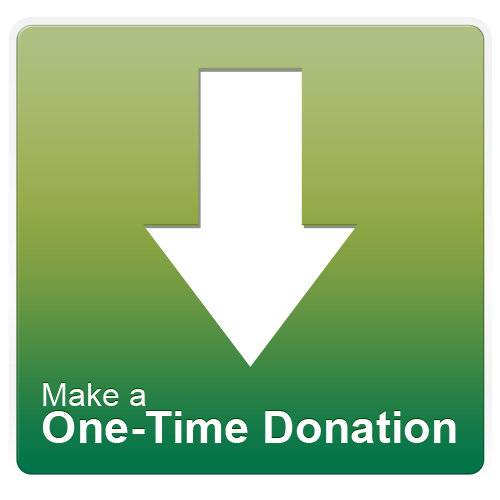
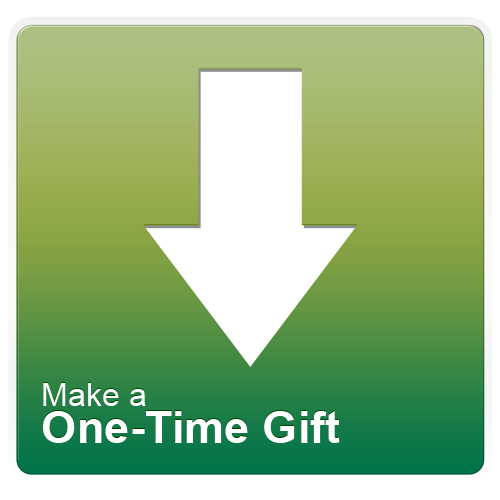
Change the word donation to gift

Changed region(s): [[0.51, 0.81, 0.93, 0.9]]

diff --git a/index.php b/index.php
@@ -31,8 +31,8 @@ $formKey = new formKey();
     <head>
         <meta charset="utf-8" />
         <meta http-equiv="X-UA-Compatible" content="IE=edge,chrome=1" />
-        <title>Hampden-Sydney College | Online Donation Form</title>
-        <meta name="description" content="Hampden-Sydney College's Online Donation Form" />
+        <title>Hampden-Sydney College | Online Gift Form</title>
+        <meta name="description" content="Hampden-Sydney College's Online Gift Form" />
         <meta name="viewport" content="width=device-width" />
 
         <link rel="icon" type="image/ico" href="favicon.ico" />
@@ -95,7 +95,7 @@ $formKey = new formKey();
                             <div class="jsDisabled">
                                 <select name="donationType">
                                     <option value="oneTimeGift">One-Time Gift</option>
-                                    <option value="recurringDonation">Recurring Donation</option>
+                                    <option value="recurringDonation">Recurring Gift</option>
                                 </select>
                             </div>
 
@@ -109,7 +109,7 @@ $formKey = new formKey();
                         <div id="step2">
                             <!--One Time Gift-->
                             <div id="makingAOneTimeGift" class="centerText control-group">
-                                <label class="control-label largeText">Enter Donation Amount Here:<sup class="requiredValue">*</sup></label>
+                                <label class="control-label largeText">Enter Gift Amount Here:<sup class="requiredValue">*</sup></label>
                                 <div class="controls">
                                     <div class="input-prepend input-append">
                                         <span class="add-on">$</span>
@@ -230,7 +230,7 @@ $formKey = new formKey();
                         <div id="step3" class="control-group">
                             <p>
                                 <strong>
-                                    Thank you for your gift of <span class="jsEnabled">$<span id="showTotalDonationAmount">DONATION_AMOUNT</span>. If this amount is incorrect, please press the previous button.</span>
+                                    Thank you for your gift of <span class="jsEnabled">$<span id="showTotalDonationAmount">GIFT_AMOUNT</span>. If this amount is incorrect, please press the previous button.</span>
                                 </strong>
                             </p>
                             <label class="centerText control-label largeText"><strong>I would like to designate my gift<sup class="requiredValue">*</sup>:</strong></label>
